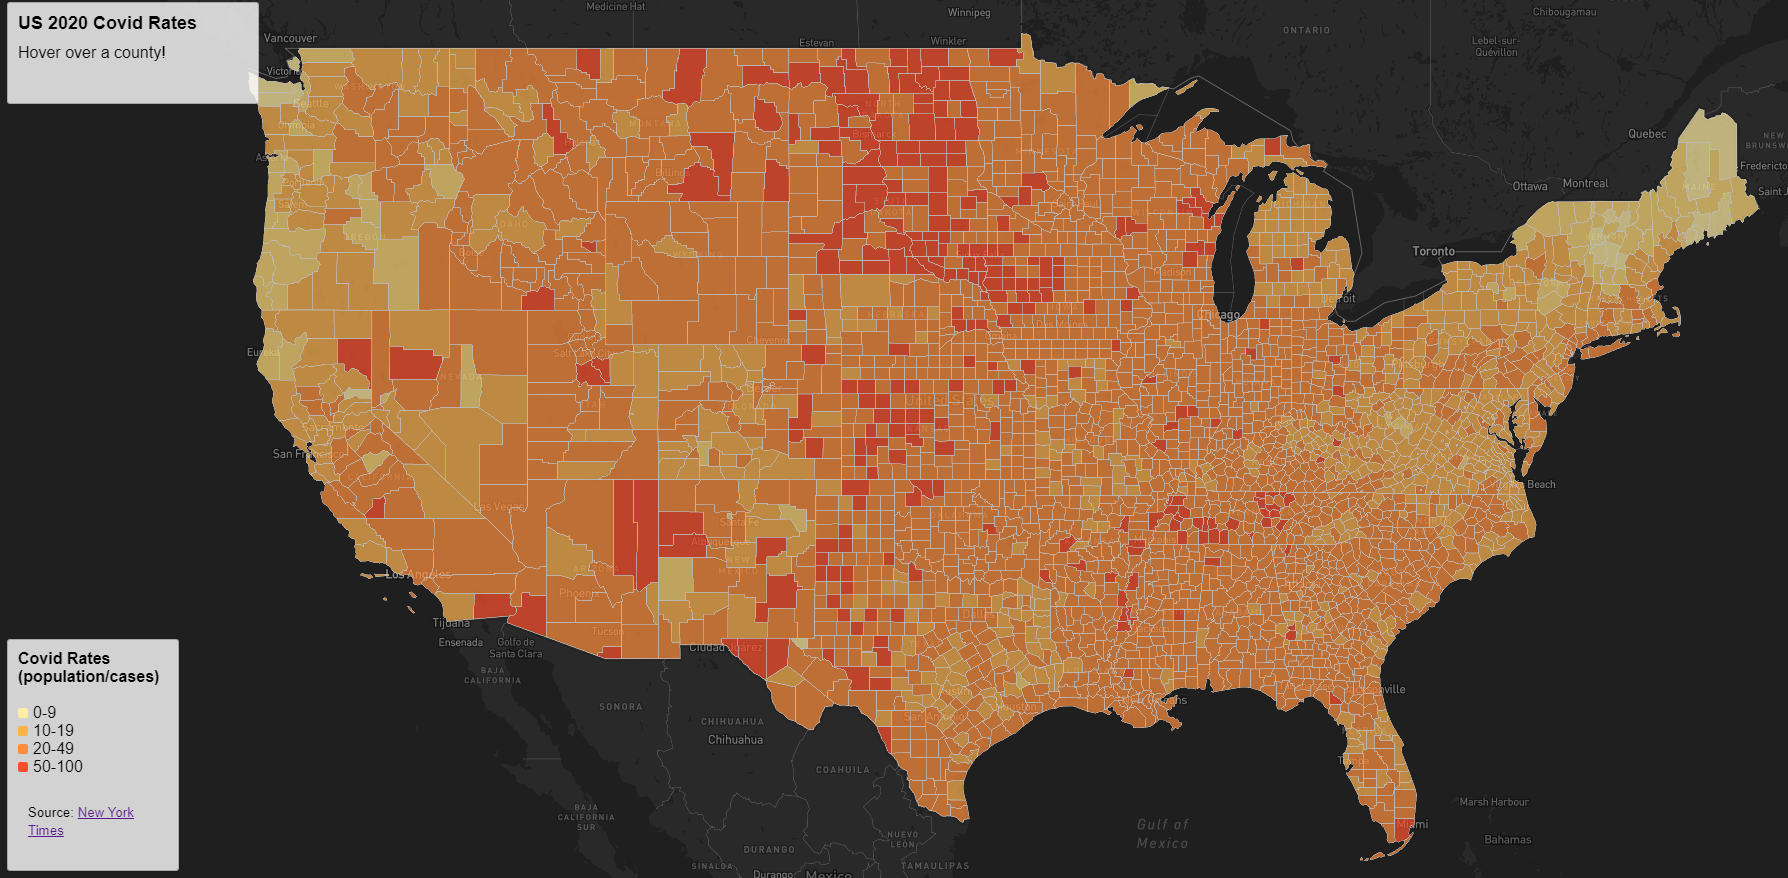
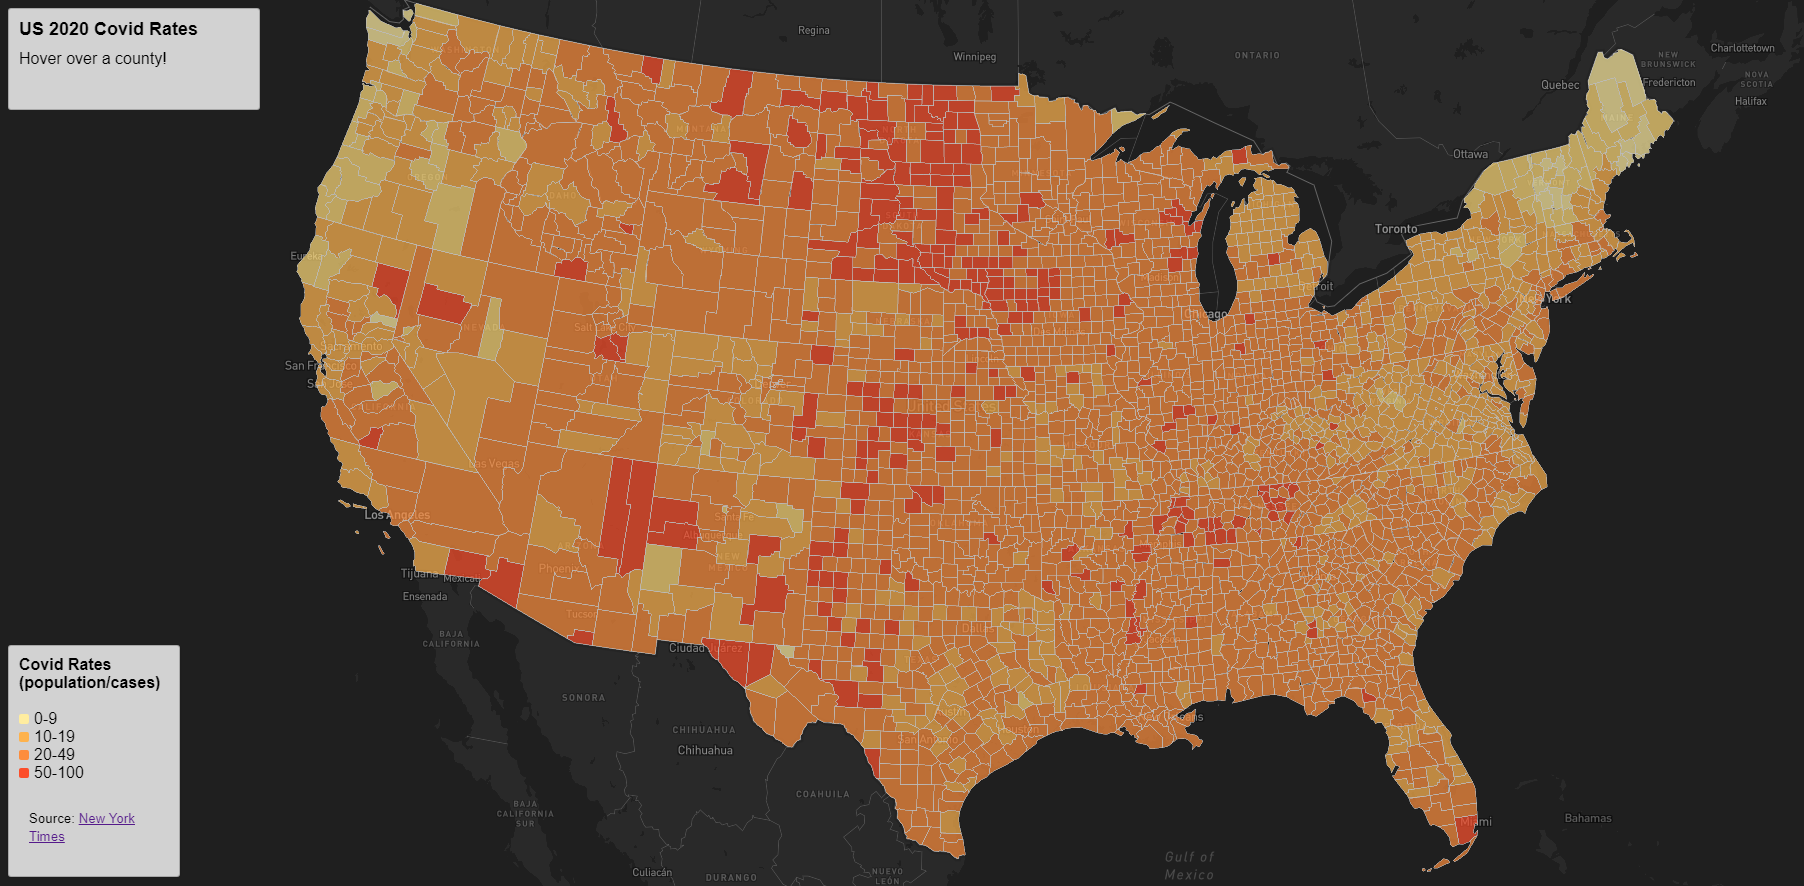
update script to make projection work, fix image

diff --git a/js/map_1.html b/js/map_1.html
@@ -4,8 +4,8 @@
         <meta charset="utf-8">
         <title>United States Covid Rates 2020</title>
         <meta name="viewport" content="initial-scale=1,maximum-scale=1,user-scalable=no">
-        <link href="https://api.mapbox.com/mapbox-gl-js/v2.5.0/mapbox-gl.css" rel="stylesheet">
-        <script src="https://api.mapbox.com/mapbox-gl-js/v2.5.0/mapbox-gl.js"></script>
+        <link href="https://api.mapbox.com/mapbox-gl-js/v2.12.0/mapbox-gl.css" rel="stylesheet">
+        <script src="https://api.mapbox.com/mapbox-gl-js/v2.12.0/mapbox-gl.js"></script>
         <style>
             h2,
             h3 {

diff --git a/README.md b/README.md
@@ -9,8 +9,6 @@ This project uses MapBox JS to make a choropleth web map application showing cov
 
 This is a map that allows the user to get a general idea of US covid rates, as well as use their mouse to hover over specific areas to learn the exact covid rate of said area. The description in the top left corner tells the user to hover over a county, and then replaces that text with the county information when the user is hovering over a county.
 
-Please note that the Map Box projection functions are not working for this map, so it is currently in the default mapbox projection (Mercator) instead of the preferred Albers projection.
-
 ## Map 2: Proportional Symbol Map of Covid Cases
 ![Proportional symbol map showing covid cases in United States](imgs/map_2.png)
 > [Use the map here.](https://loganweidner.github.io/GEOG458_Covid_Web_Mapping/js/map_1.html)
